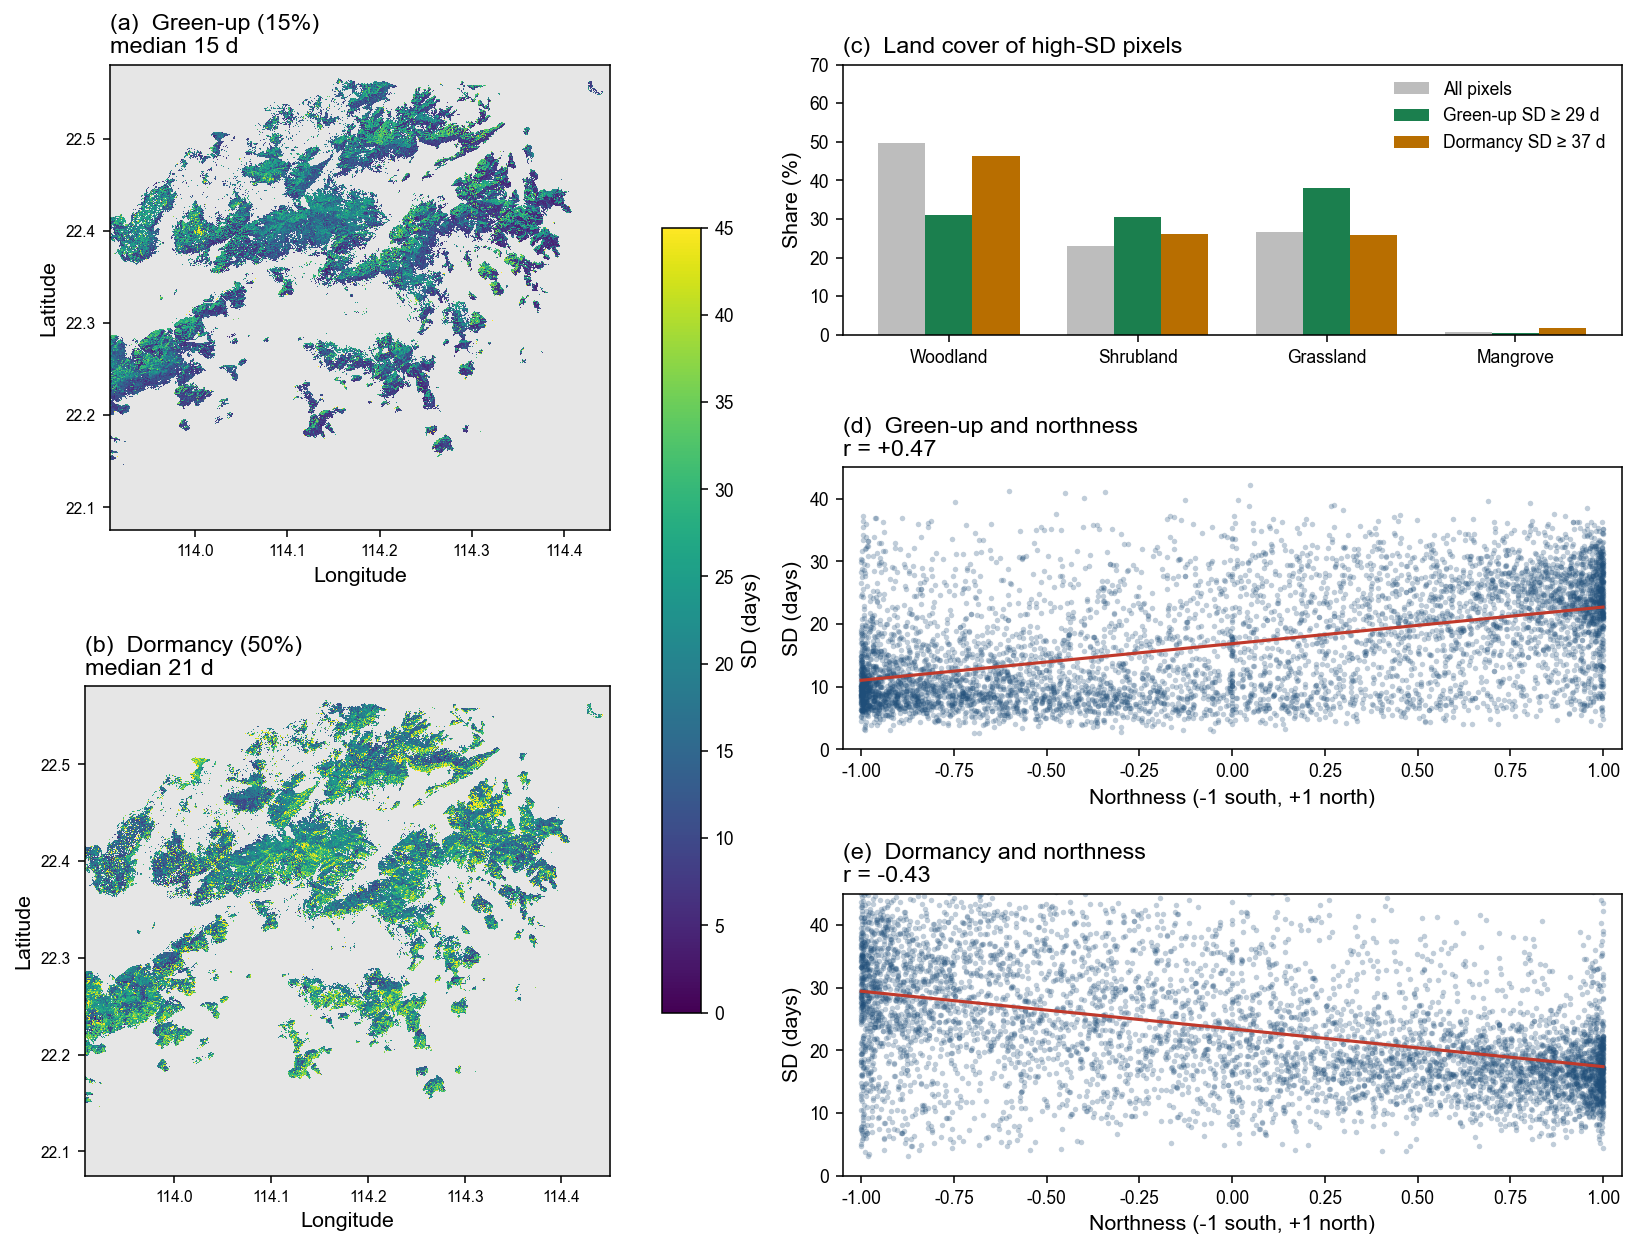
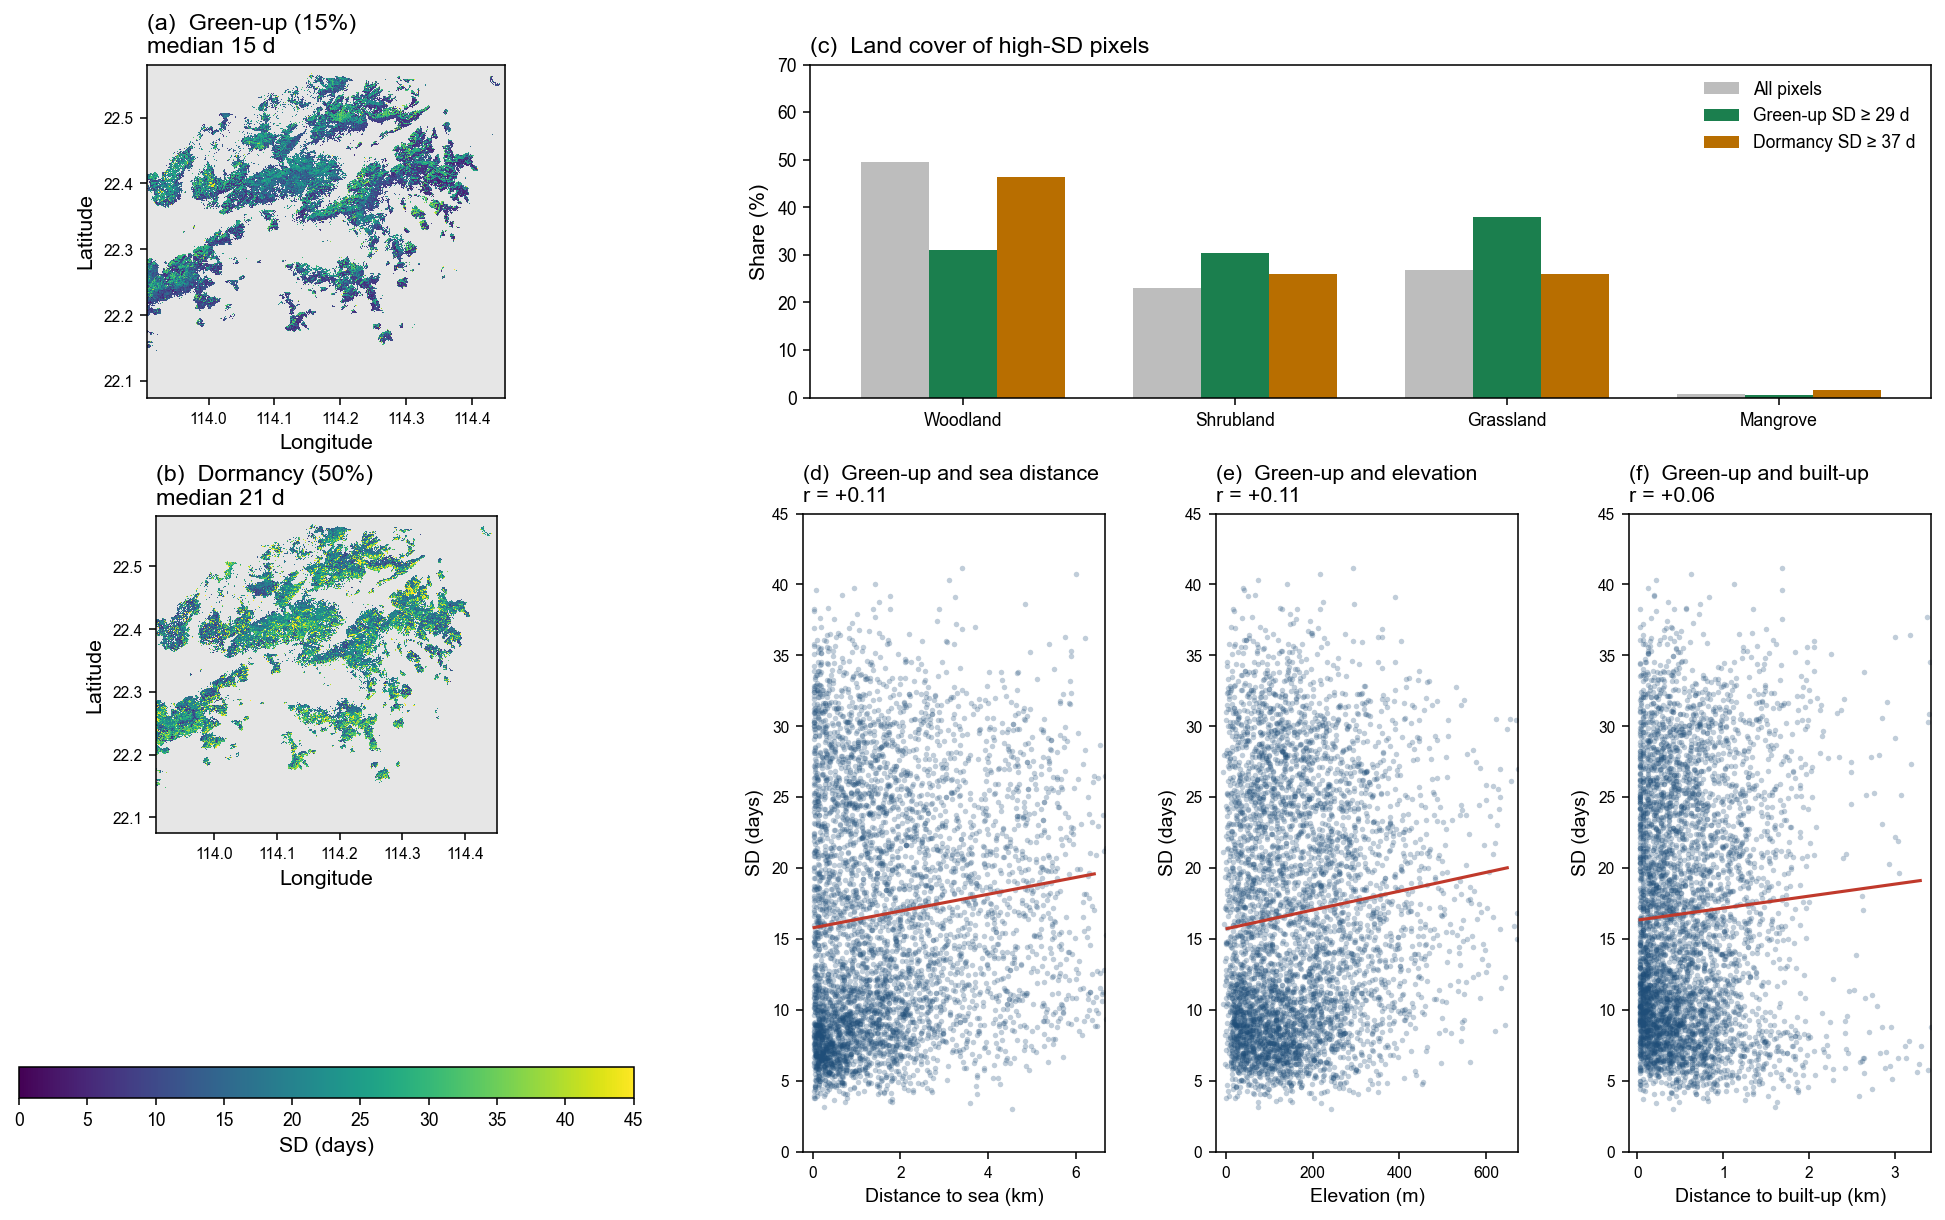
Drop aspect and slope from the high-SD pixel figure.
The remaining associations are distance to the sea, elevation, and distance to built-up, and only green-up shows them.

diff --git a/analyze_date_variance.py b/analyze_date_variance.py
@@ -2,8 +2,8 @@
 """Year-to-year spread of 30 m green-up and dormancy.
 
 Pixels need six valid years. The maps are the standard deviation across years.
-The right-hand panels show the land cover of the high-SD pixels and the one
-environmental factor that tracks that spread, northness.
+The right-hand panels show the land cover of the high-SD pixels and the
+environmental factors that still correlate once slope and aspect are left out.
 """
 from __future__ import annotations
 
@@ -112,34 +112,38 @@ def map_panel(ax, image, extent, title, norm, cmap, font) -> object:
     return im
 
 
-def scatter_panel(ax, x, y, title, font, ylim) -> None:
+def scatter_panel(ax, x, y, title, xlabel, font, ylim) -> float:
     finite = np.isfinite(x) & np.isfinite(y)
     slope, intercept, r, _p, _se = linregress(x[finite], y[finite])
     rng = np.random.default_rng(20261014)
-    take = rng.choice(np.flatnonzero(finite), size=6000, replace=False)
+    take = rng.choice(np.flatnonzero(finite), size=5000, replace=False)
     ax.scatter(x[take], y[take], s=8, c="#1f4e79", alpha=0.28, linewidths=0, rasterized=True)
-    xs = np.linspace(-1.0, 1.0, 40)
-    ax.plot(xs, intercept + slope * xs, color="#c0392b", lw=1.6)
-    ax.set_xlim(-1.05, 1.05)
+    lo, hi = np.percentile(x[finite], [1, 99])
+    pad = 0.04 * (hi - lo)
+    ax.plot(np.linspace(lo, hi, 40), intercept + slope * np.linspace(lo, hi, 40), color="#c0392b", lw=1.6)
+    ax.set_xlim(lo - pad, hi + pad)
     ax.set_ylim(0, ylim)
-    ax.set_title(f"{title}\nr = {r:+.2f}", fontproperties=font, fontsize=12, loc="left")
-    ax.set_xlabel("Northness (-1 south, +1 north)", fontproperties=font)
-    ax.set_ylabel("SD (days)", fontproperties=font)
-    ax.tick_params(labelsize=9)
+    ax.set_title(f"{title}\nr = {r:+.2f}", fontproperties=font, fontsize=11, loc="left")
+    ax.set_xlabel(xlabel, fontproperties=font, fontsize=10)
+    ax.set_ylabel("SD (days)", fontproperties=font, fontsize=10)
+    ax.tick_params(labelsize=8)
     log(f"{title}  r {r:+.3f}  n {int(finite.sum())}")
+    return float(r)
 
 
-def draw(sos_img, eos_img, extent, shares, sos_sd, eos_sd, north, sos_cut, eos_cut) -> None:
+def draw(sos_img, eos_img, extent, shares, sos_sd, fields, sos_cut, eos_cut) -> None:
     use_arial()
     font = arial(11)
     small = arial(10)
-    fig = plt.figure(figsize=(13.4, 8.8), layout="constrained")
-    gs = fig.add_gridspec(6, 2, width_ratios=[1.15, 1.05])
-    ax_a = fig.add_subplot(gs[0:3, 0])
-    ax_b = fig.add_subplot(gs[3:6, 0])
-    ax_c = fig.add_subplot(gs[0:2, 1])
-    ax_d = fig.add_subplot(gs[2:4, 1])
-    ax_e = fig.add_subplot(gs[4:6, 1])
+    fig = plt.figure(figsize=(14.4, 8.6), layout="constrained")
+    gs = fig.add_gridspec(2, 2, width_ratios=[1.02, 1.45], height_ratios=[1.05, 1.0])
+    ax_a = fig.add_subplot(gs[0, 0])
+    ax_b = fig.add_subplot(gs[1, 0])
+    ax_c = fig.add_subplot(gs[0, 1])
+    sub = gs[1, 1].subgridspec(1, 3, wspace=0.08)
+    ax_d = fig.add_subplot(sub[0, 0])
+    ax_e = fig.add_subplot(sub[0, 1])
+    ax_f = fig.add_subplot(sub[0, 2])
     finite = np.concatenate([sos_img[np.isfinite(sos_img)], eos_img[np.isfinite(eos_img)]])
     vmax = float(np.ceil(np.percentile(finite, 98) / 5.0) * 5.0)
     cmap = plt.get_cmap("viridis").copy()
@@ -147,7 +151,7 @@ def draw(sos_img, eos_img, extent, shares, sos_sd, eos_sd, north, sos_cut, eos_c
     norm = Normalize(0, vmax)
     im = map_panel(ax_a, sos_img, extent, "(a)  Green-up (15%)", norm, cmap, font)
     map_panel(ax_b, eos_img, extent, "(b)  Dormancy (50%)", norm, cmap, font)
-    cbar = fig.colorbar(im, ax=[ax_a, ax_b], fraction=0.046, pad=0.06)
+    cbar = fig.colorbar(im, ax=[ax_a, ax_b], orientation="horizontal", fraction=0.04, pad=0.22)
     cbar.set_label("SD (days)", fontproperties=font, fontsize=11)
     cbar.ax.tick_params(labelsize=9)
 
@@ -168,8 +172,9 @@ def draw(sos_img, eos_img, extent, shares, sos_sd, eos_sd, north, sos_cut, eos_c
     ax_c.set_title("(c)  Land cover of high-SD pixels", fontproperties=font, fontsize=12, loc="left")
     ax_c.legend(frameon=False, prop=arial(9), loc="upper right")
     ax_c.tick_params(labelsize=9)
-    scatter_panel(ax_d, north, sos_sd, "(d)  Green-up and northness", font, vmax)
-    scatter_panel(ax_e, north, eos_sd, "(e)  Dormancy and northness", font, vmax)
+    scatter_panel(ax_d, fields["sea_m"] / 1000.0, sos_sd, "(d)  Green-up and sea distance", "Distance to sea (km)", font, vmax)
+    scatter_panel(ax_e, fields["elev"], sos_sd, "(e)  Green-up and elevation", "Elevation (m)", font, vmax)
+    scatter_panel(ax_f, fields["urban_m"] / 1000.0, sos_sd, "(f)  Green-up and built-up", "Distance to built-up (km)", font, vmax)
     path = FINAL / "10_phenology_interannual_sd.png"
     fig.savefig(path, dpi=140, bbox_inches="tight", facecolor="white")
     plt.close(fig)
@@ -196,7 +201,7 @@ def main() -> None:
         text = "  ".join(f"{name} {100 * value:.1f}%" for (_code, name), value in zip(COVER, values))
         log(f"{key:4} {text}")
     rows = []
-    for factor in ("elev", "slope", "northness", "sea_m", "urban_m"):
+    for factor in ("elev", "sea_m", "urban_m"):
         for target, sd, ok in (("green-up", sos_sd, sos_ok), ("dormancy", eos_sd, eos_ok)):
             x = fields[factor]
             mask = ok & np.isfinite(x)
@@ -209,8 +214,7 @@ def main() -> None:
         extent,
         shares,
         sos_sd,
-        eos_sd,
-        fields["northness"],
+        fields,
         sos_cut,
         eos_cut,
     )
